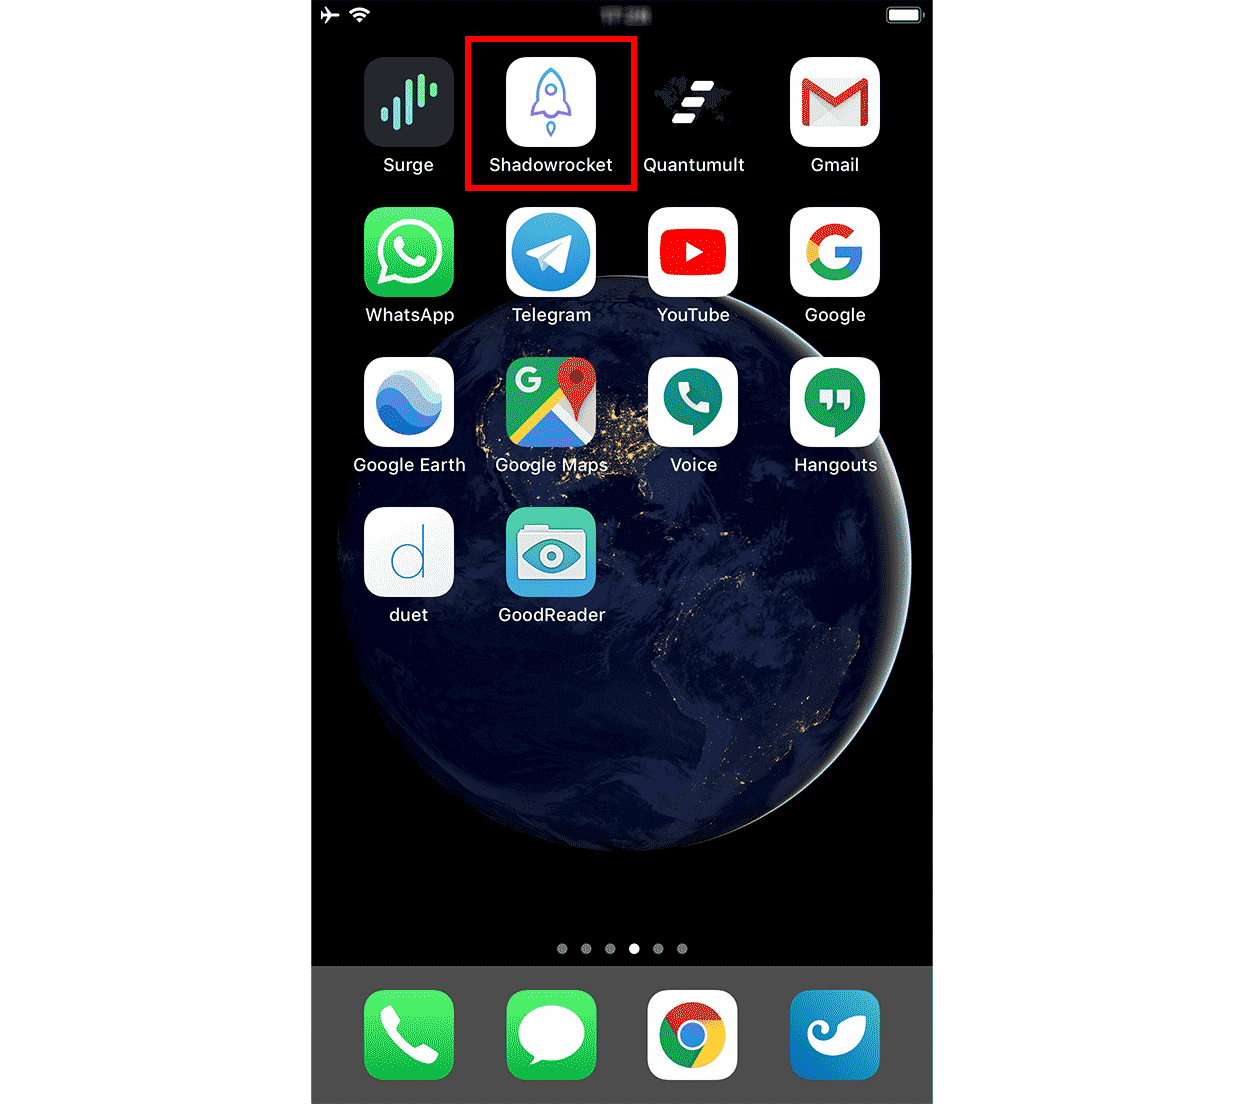
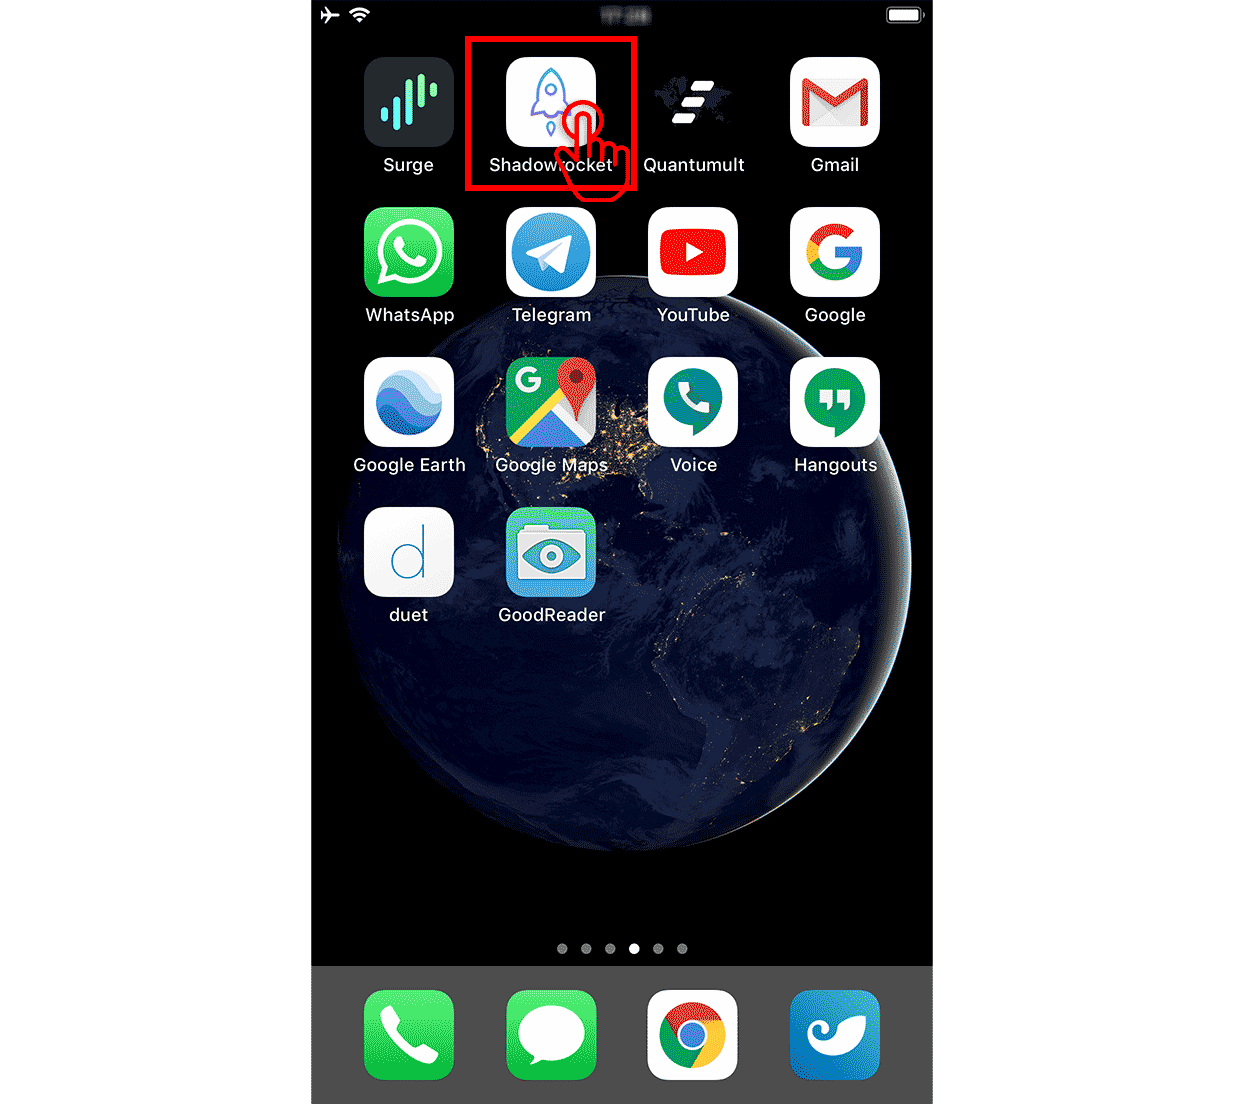
guide for shadowrocket

diff --git a/guide/shadowrocket.rst b/guide/shadowrocket.rst
@@ -1,0 +1,233 @@
+.. _guide_for_shadowrocket:
+
+Guide for Shadowrocket on iOS
+=============================
+
+How to subscribe :ref:`autossr` in `Shadowrocket`_ on iOS
+
+.. _Shadowrocket: https://itunes.apple.com/us/app/shadowrocket/id932747118?mt=8
+
+
+
+Install in App Store
+--------------------
+
+Install `Shadowrocket`_ in **App Store**:
+
+.. image:: /_static/shadowrocket/store.png
+   :width: 80 %
+   :alt: store.png
+   :align: center
+
+
+Open it:
+
+.. image:: /_static/shadowrocket/desktop.png
+   :width: 80 %
+   :alt: desktop.png
+   :align: center
+
+
+
+Add AutoSSR Subscribe
+---------------------
+
+Click the add sign in the top right corner to add subscribe:
+
+.. image:: /_static/shadowrocket/main.png
+   :width: 80 %
+   :alt: main.png
+   :align: center
+
+
+Change the **type** to **Subscribe**:
+
+.. image:: /_static/shadowrocket/add.png
+   :width: 80 %
+   :alt: add.png
+   :align: center
+
+
+.. image:: /_static/shadowrocket/type.png
+   :width: 80 %
+   :alt: type.png
+   :align: center
+
+
+Fill the **URL** blank, with one of the links of :ref:`autossr`,
+the **stable** and **online** is recommended, we choose the stable one here
+**https://git.io/autossr-stable**, at the same time,
+you can give it a name in the **Remark** blank, then press **Done**:
+
+.. image:: /_static/shadowrocket/stable.png
+   :width: 80 %
+   :alt: stable.png
+   :align: center
+
+
+You can see the servers in the list now, make a **Pint Test** and choose the fastest one,
+then turn on the switch.
+
+.. image:: /_static/shadowrocket/list.png
+   :width: 80 %
+   :alt: list.png
+   :align: center
+
+
+It is connected now.
+
+.. image:: /_static/shadowrocket/connected.png
+   :width: 80 %
+   :alt: connected.png
+   :align: center
+
+
+
+How to choose and use rules
+---------------------------
+
+A suitable rule configuration can help you optimize routing paths,
+increase speed and save traffic. If you want this feature,
+there is a wonderful repository `lhie1/Rules <https://github.com/lhie1/Rules>`_.
+Great thanks to `lhie1 <https://github.com/lhie1>`_.
+
+To enable the rules, follow the steps below:
+
+Make sure the **Global Routing** is set to **Config**:
+
+.. image:: /_static/shadowrocket/routing.png
+   :width: 80 %
+   :alt: routing.png
+   :align: center
+
+
+.. image:: /_static/shadowrocket/routing_config.png
+   :width: 80 %
+   :alt: routing_config.png
+   :align: center
+
+
+Then go to the **Config** page, press the add sign:
+
+.. image:: /_static/shadowrocket/config_main.png
+   :width: 80 %
+   :alt: config_main.png
+   :align: center
+
+
+For `Shadowrocket`_, this remote file
+**https://raw.githubusercontent.com/lhie1/Rules/master/Shadowrocket.conf** is recommended,
+it is provided in `lhie1/Rules <https://github.com/lhie1/Rules>`_.
+
+Paste the **URL** and press **Download**:
+
+.. image:: /_static/shadowrocket/config_add.png
+   :width: 80 %
+   :alt: config_add.png
+   :align: center
+
+
+Now you can see it, press and choose **Use Config**:
+
+.. image:: /_static/shadowrocket/config_list.png
+   :width: 80 %
+   :alt: config_list.png
+   :align: center
+
+
+.. image:: /_static/shadowrocket/config_use.png
+   :width: 80 %
+   :alt: config_use.png
+   :align: center
+
+
+OKay, there is a **Shadowrocket.conf** in the **LOCAL FILES** already,
+and it is in use.
+
+.. image:: /_static/shadowrocket/config_listed.png
+   :width: 80 %
+   :alt: config_listed.png
+   :align: center
+
+
+
+How to use a certificate
+------------------------
+
+With the help of rules and using a certificate generated by `Shadowrocket`_,
+you can be free from the annoyance of most ads while browsing.
+
+To the **Setting** page, get in the **Certificate** item:
+
+.. image:: /_static/shadowrocket/setting.png
+   :width: 80 %
+   :alt: setting.png
+   :align: center
+
+
+**Generate a New Certificate**:
+
+.. image:: /_static/shadowrocket/ca_gen.png
+   :width: 80 %
+   :alt: ca_gen.png
+   :align: center
+
+
+Press **Install CA Certificate to System**,
+
+.. image:: /_static/shadowrocket/ca_menu.png
+   :width: 80 %
+   :alt: ca_menu.png
+   :align: center
+
+
+Safari will lead you to the system settings,
+
+.. image:: /_static/shadowrocket/safari_to.png
+   :width: 80 %
+   :alt: safari_to.png
+   :align: center
+
+
+Install it:
+
+.. image:: /_static/shadowrocket/setting_ca.png
+   :width: 80 %
+   :alt: setting_ca.png
+   :align: center
+
+
+.. image:: /_static/shadowrocket/ca_install.png
+   :width: 80 %
+   :alt: ca_install.png
+   :align: center
+
+
+Press **Done** and back to `Shadowrocket`_:
+
+.. image:: /_static/shadowrocket/ca_installed.png
+   :width: 80 %
+   :alt: ca_installed.png
+   :align: center
+
+
+.. image:: /_static/shadowrocket/safari_back.png
+   :width: 80 %
+   :alt: safari_back.png
+   :align: center
+
+
+.. image:: /_static/shadowrocket/ca_done.png
+   :width: 80 %
+   :alt: ca_done.png
+   :align: center
+
+
+It is ready for working, now. Connect and enjoy!
+
+.. image:: /_static/shadowrocket/connected.png
+   :width: 80 %
+   :alt: connected.png
+   :align: center
+
+

diff --git a/reports/summary2018.rst b/reports/summary2018.rst
@@ -31,7 +31,7 @@ What we have done in 2018:
    - TCP [#TCP]_ NAT traversal [#NAT]_ over UDP [#UDP]_ for `vnTUNNEL` implemented
    - `vnVPN Alpha Server side v0.3.0 on Linux` released
    - `vnVPN Alpha Server side v0.3.0 on Windows` released
-   - :ref:`autossr-lable` (A free ShadowsocksR [#ShadowsocksR]_ subscription updating tool) released
+   - :ref:`autossr` (A free ShadowsocksR [#ShadowsocksR]_ subscription updating tool) released
 
 
 .. [#token] `VNET Token Contract on etherscan.io`_

diff --git a/autossr/autossr.rst b/autossr/autossr.rst
@@ -1,7 +1,7 @@
-.. _autossr-lable:
+.. _autossr:
 
-Free ShadowsocksR
-=================
+AutoSSR: Free ShadowsocksR
+==========================
 
 - **Telegram Channel:** https://t.me/autossr
 - **Github:** https://github.com/VisionNetworkProject/AutoSSR
@@ -41,3 +41,8 @@ Supported clients
 .. _ShadowsocksR: https://github.com/shadowsocksrr/shadowsocksr-csharp/releases
 
 
+
+Guides
+======
+
+- :ref:`guide_for_shadowrocket`

diff --git a/index.rst b/index.rst
@@ -76,6 +76,14 @@ Contacts
    reports/vnvpn_alpha
 
 
+.. _guide:
+
+.. toctree::
+   :maxdepth: 1
+   :caption: Guides
+
+   guide/shadowrocket
+
 
 .. _contracts:
 
